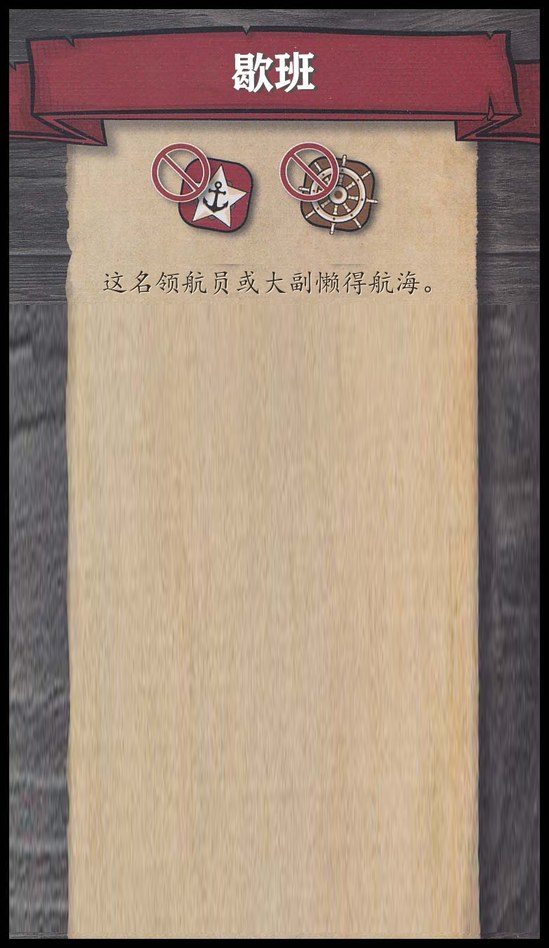
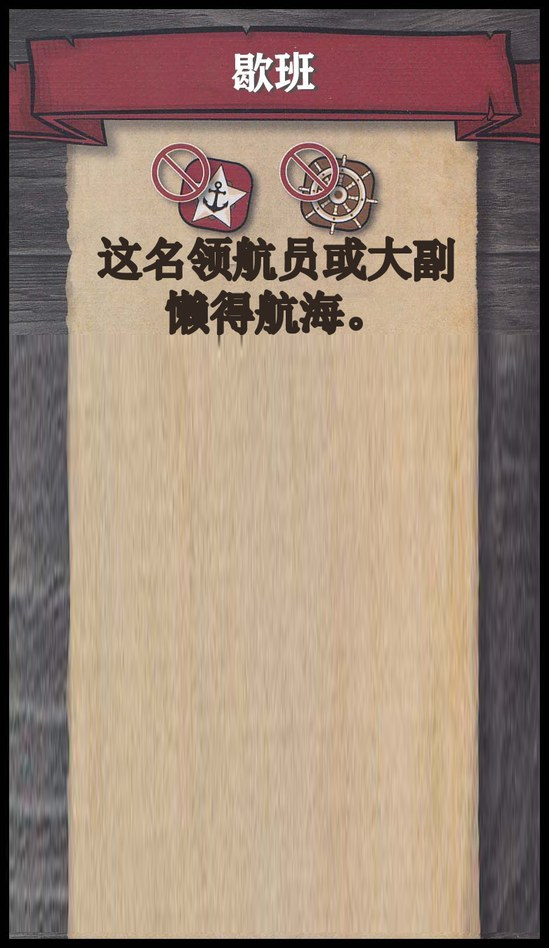
feat(client): bolder, larger off-duty caption; anchors follow
Repaint the parchment caption as two bold serif lines (64px SimSun with
stroke, ~= the UI's 无人歇班 look) — at wing scale the old single line
read ~9px on screen, the new one ~15px. Crew/empty overlays re-anchored
below the taller caption; portrait twin regenerated with the stretch
band moved below it so the text stays undistorted.

diff --git a/packages/client/src/styles.css b/packages/client/src/styles.css
@@ -1495,14 +1495,14 @@ button:disabled { cursor: not-allowed; }
 /* The art's painted banner already says 歇班 — the DOM badge is redundant. */
 .col--wing .zones__banner--rest { display: none; }
 /* The overlay text sits on a canvas ~1.7× the landscape art's linear size,
-   so scale it up to match. Anchored just under the painted caption. */
+   so scale it up to match. Anchored under the painted two-line caption. */
 .col--wing .offduty__empty {
-  top: 33%;
+  top: 36%;
   font-size: 18px;
   letter-spacing: 0.18em;
 }
 .col--wing .offduty__crew {
-  top: 37%;
+  top: 39%;
   bottom: 18px;
   gap: 6px 16px;
   padding: 0 20px;
